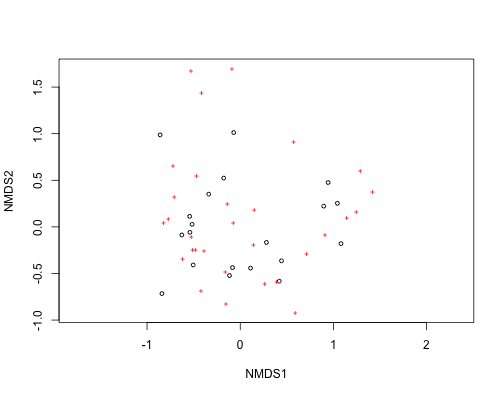
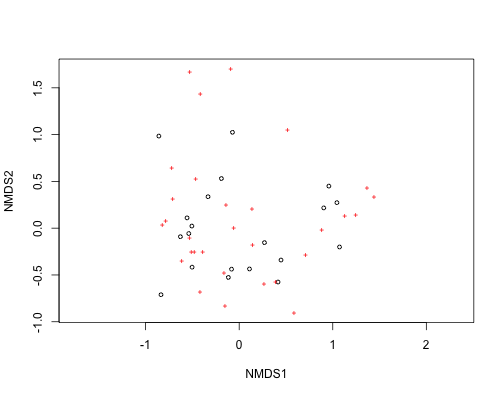
changes to sfu workshop talk

diff --git a/sfu/workshop2/index.html b/sfu/workshop2/index.html
@@ -539,21 +539,12 @@ ggplot(ord_axes, aes(NMDS1, NMDS2)) + geom_point() + geom_point(data = ord_spp,
 
 <slide class="" id="slide-17" style="background:;">
   <article data-timings="">
-    <pre><code class="r">ord &lt;- metaMDS(dune)
+    <pre><code class="r">plot(ord)
 </code></pre>
 
-<pre><code>Run 0 stress 0.1193 
-Run 1 stress 0.1809 
-Run 2 stress 0.1183 
-... New best solution
-... procrustes: rmse 0.02027  max resid 0.06498 
-Run 3 stress 0.2035 
-Run 4 stress 0.1193 
-Run 5 stress 0.1193 
-Run 6 stress 0.1183 
-... New best solution
-... procrustes: rmse 4.182e-05  max resid 0.0001343 
-</code></pre>
+<p><img src="assets/fig/asdf.png" title="plot of chunk asdf" alt="plot of chunk asdf" style="display: block; margin: auto;" /></p>
+
+<!-- networks -->
 
   </article>
   <!-- Presenter Notes -->

diff --git a/sfu/workshop2/index.md b/sfu/workshop2/index.md
@@ -489,25 +489,6 @@ ggplot(ord_axes, aes(NMDS1, NMDS2)) + geom_point() + geom_point(data = ord_spp,
 
 
 ```r
-ord <- metaMDS(dune)
-```
-
-```
-Run 0 stress 0.1193 
-Run 1 stress 0.1809 
-Run 2 stress 0.1183 
-... New best solution
-... procrustes: rmse 0.02027  max resid 0.06498 
-Run 3 stress 0.2035 
-Run 4 stress 0.1193 
-Run 5 stress 0.1193 
-Run 6 stress 0.1183 
-... New best solution
-... procrustes: rmse 4.182e-05  max resid 0.0001343 
-*** Solution reached
-```
-
-```r
 plot(ord)
 ```
 
